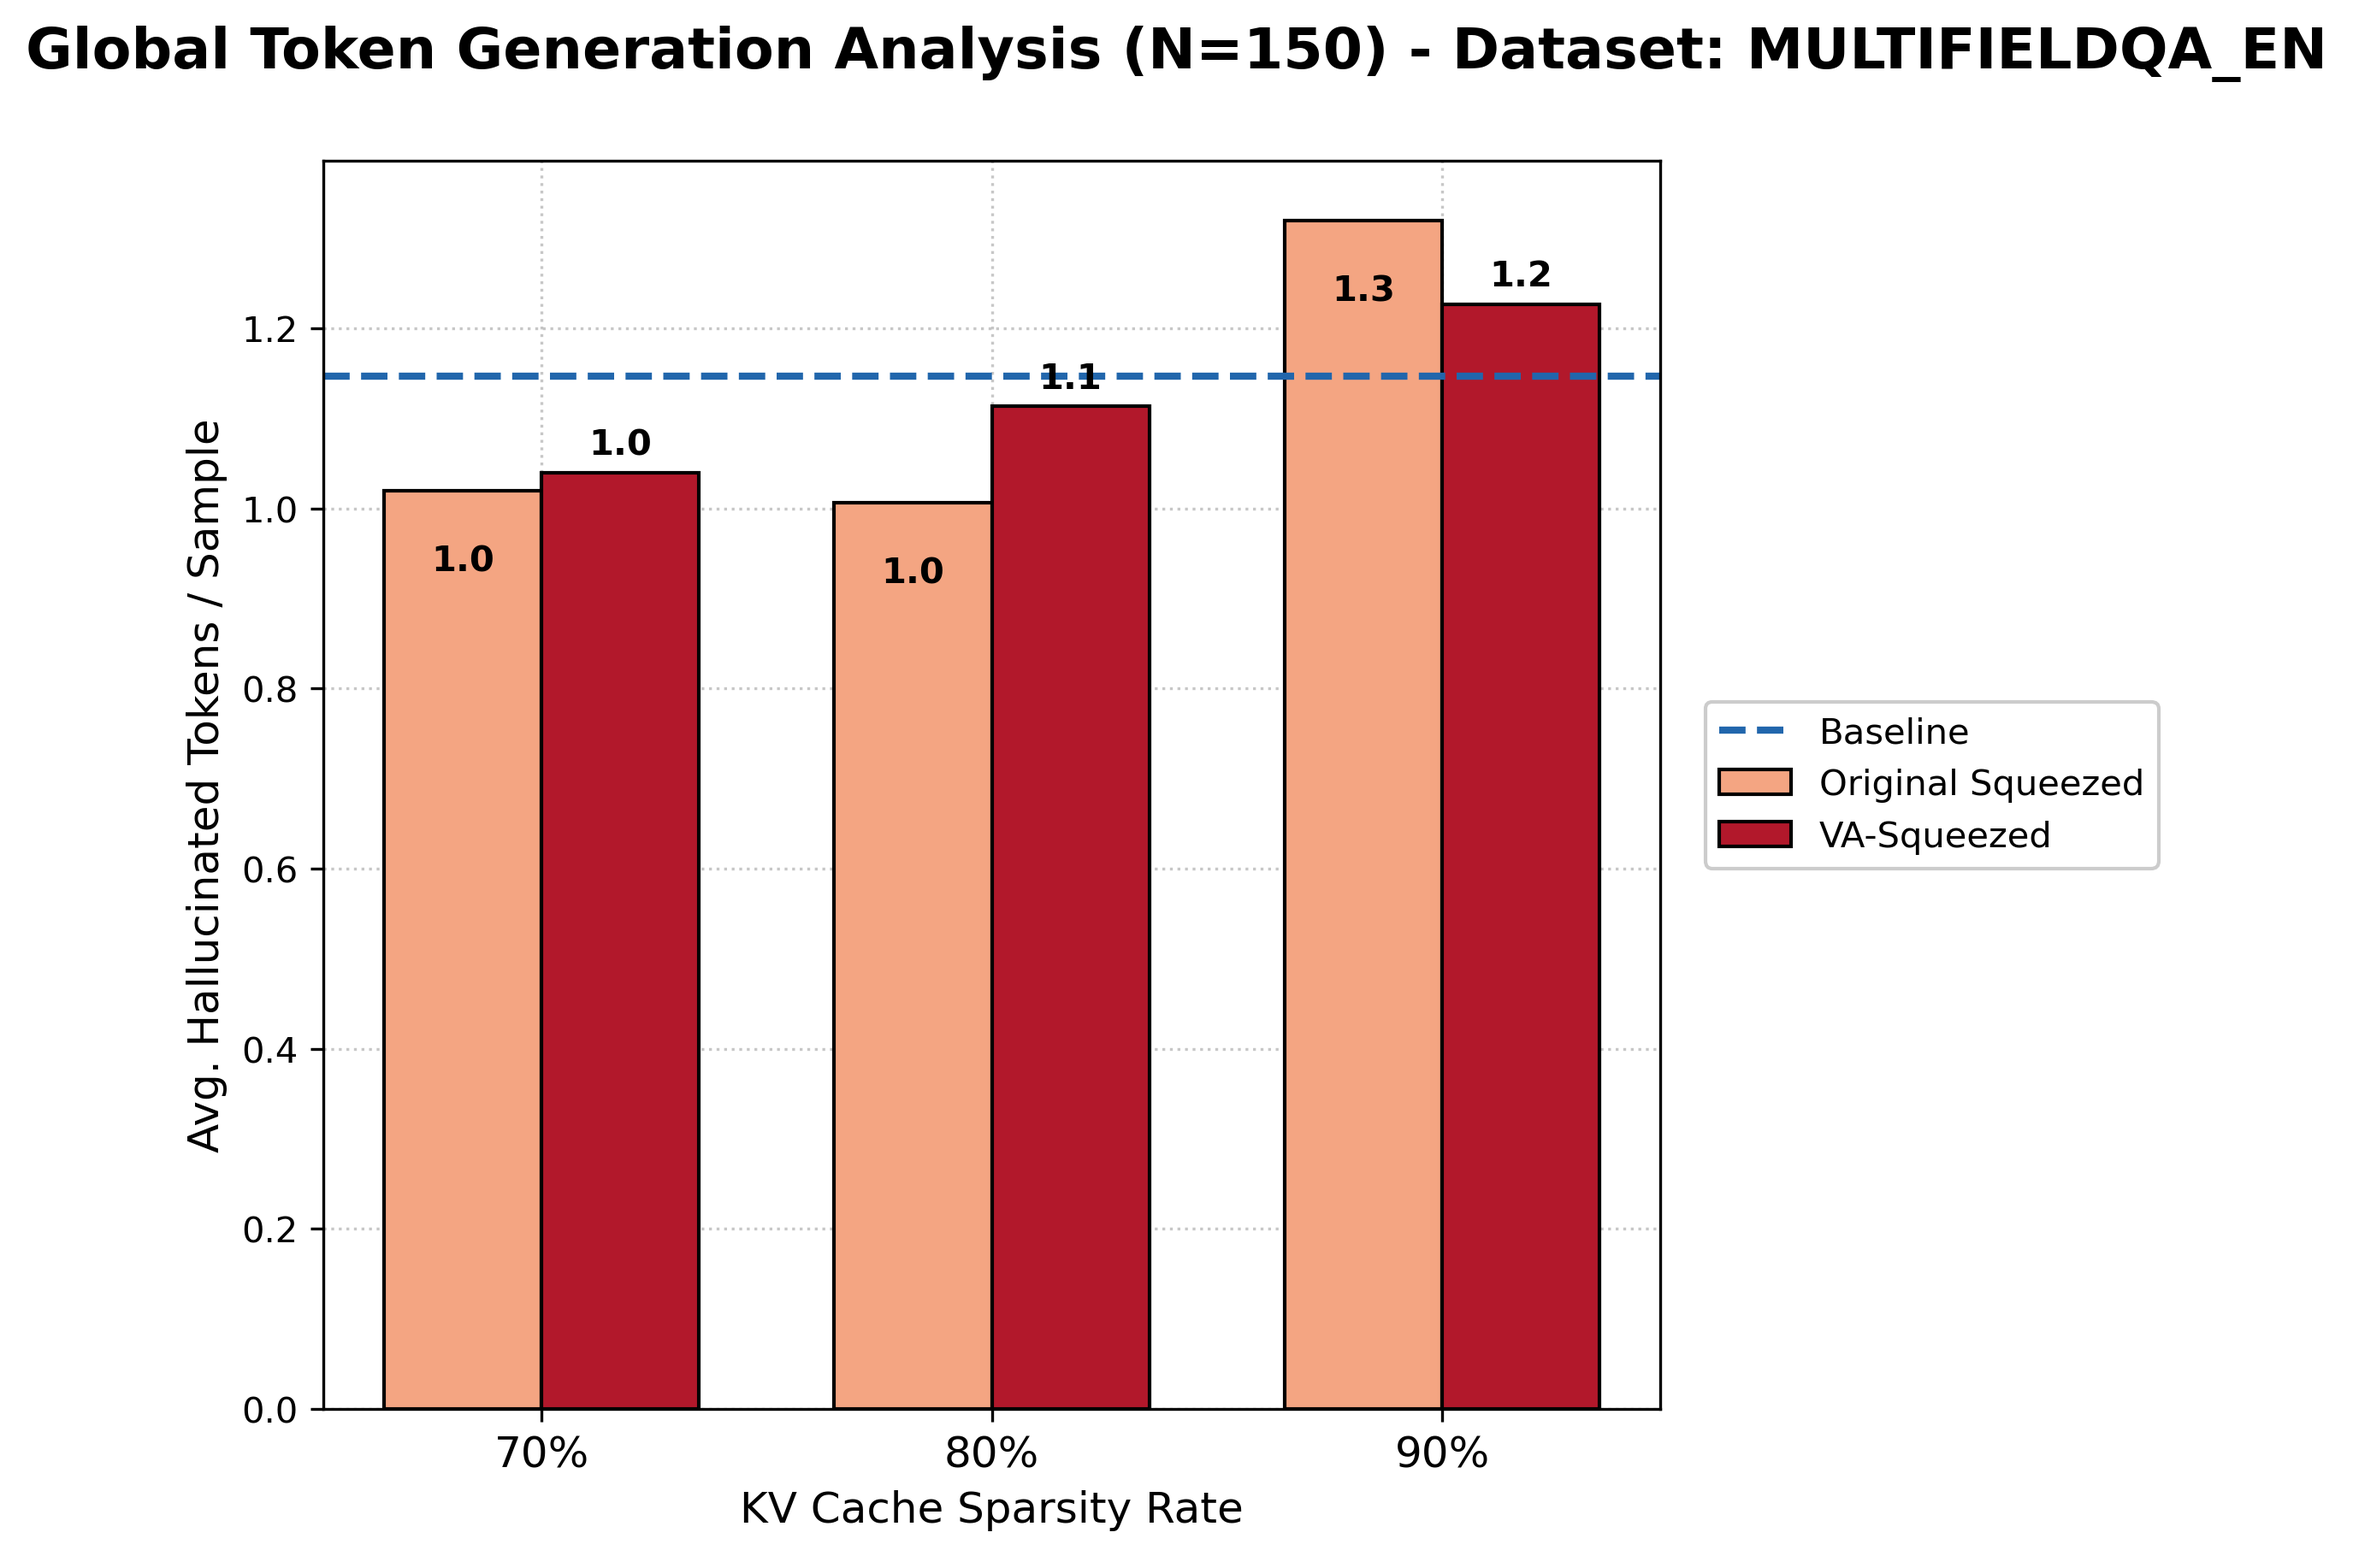
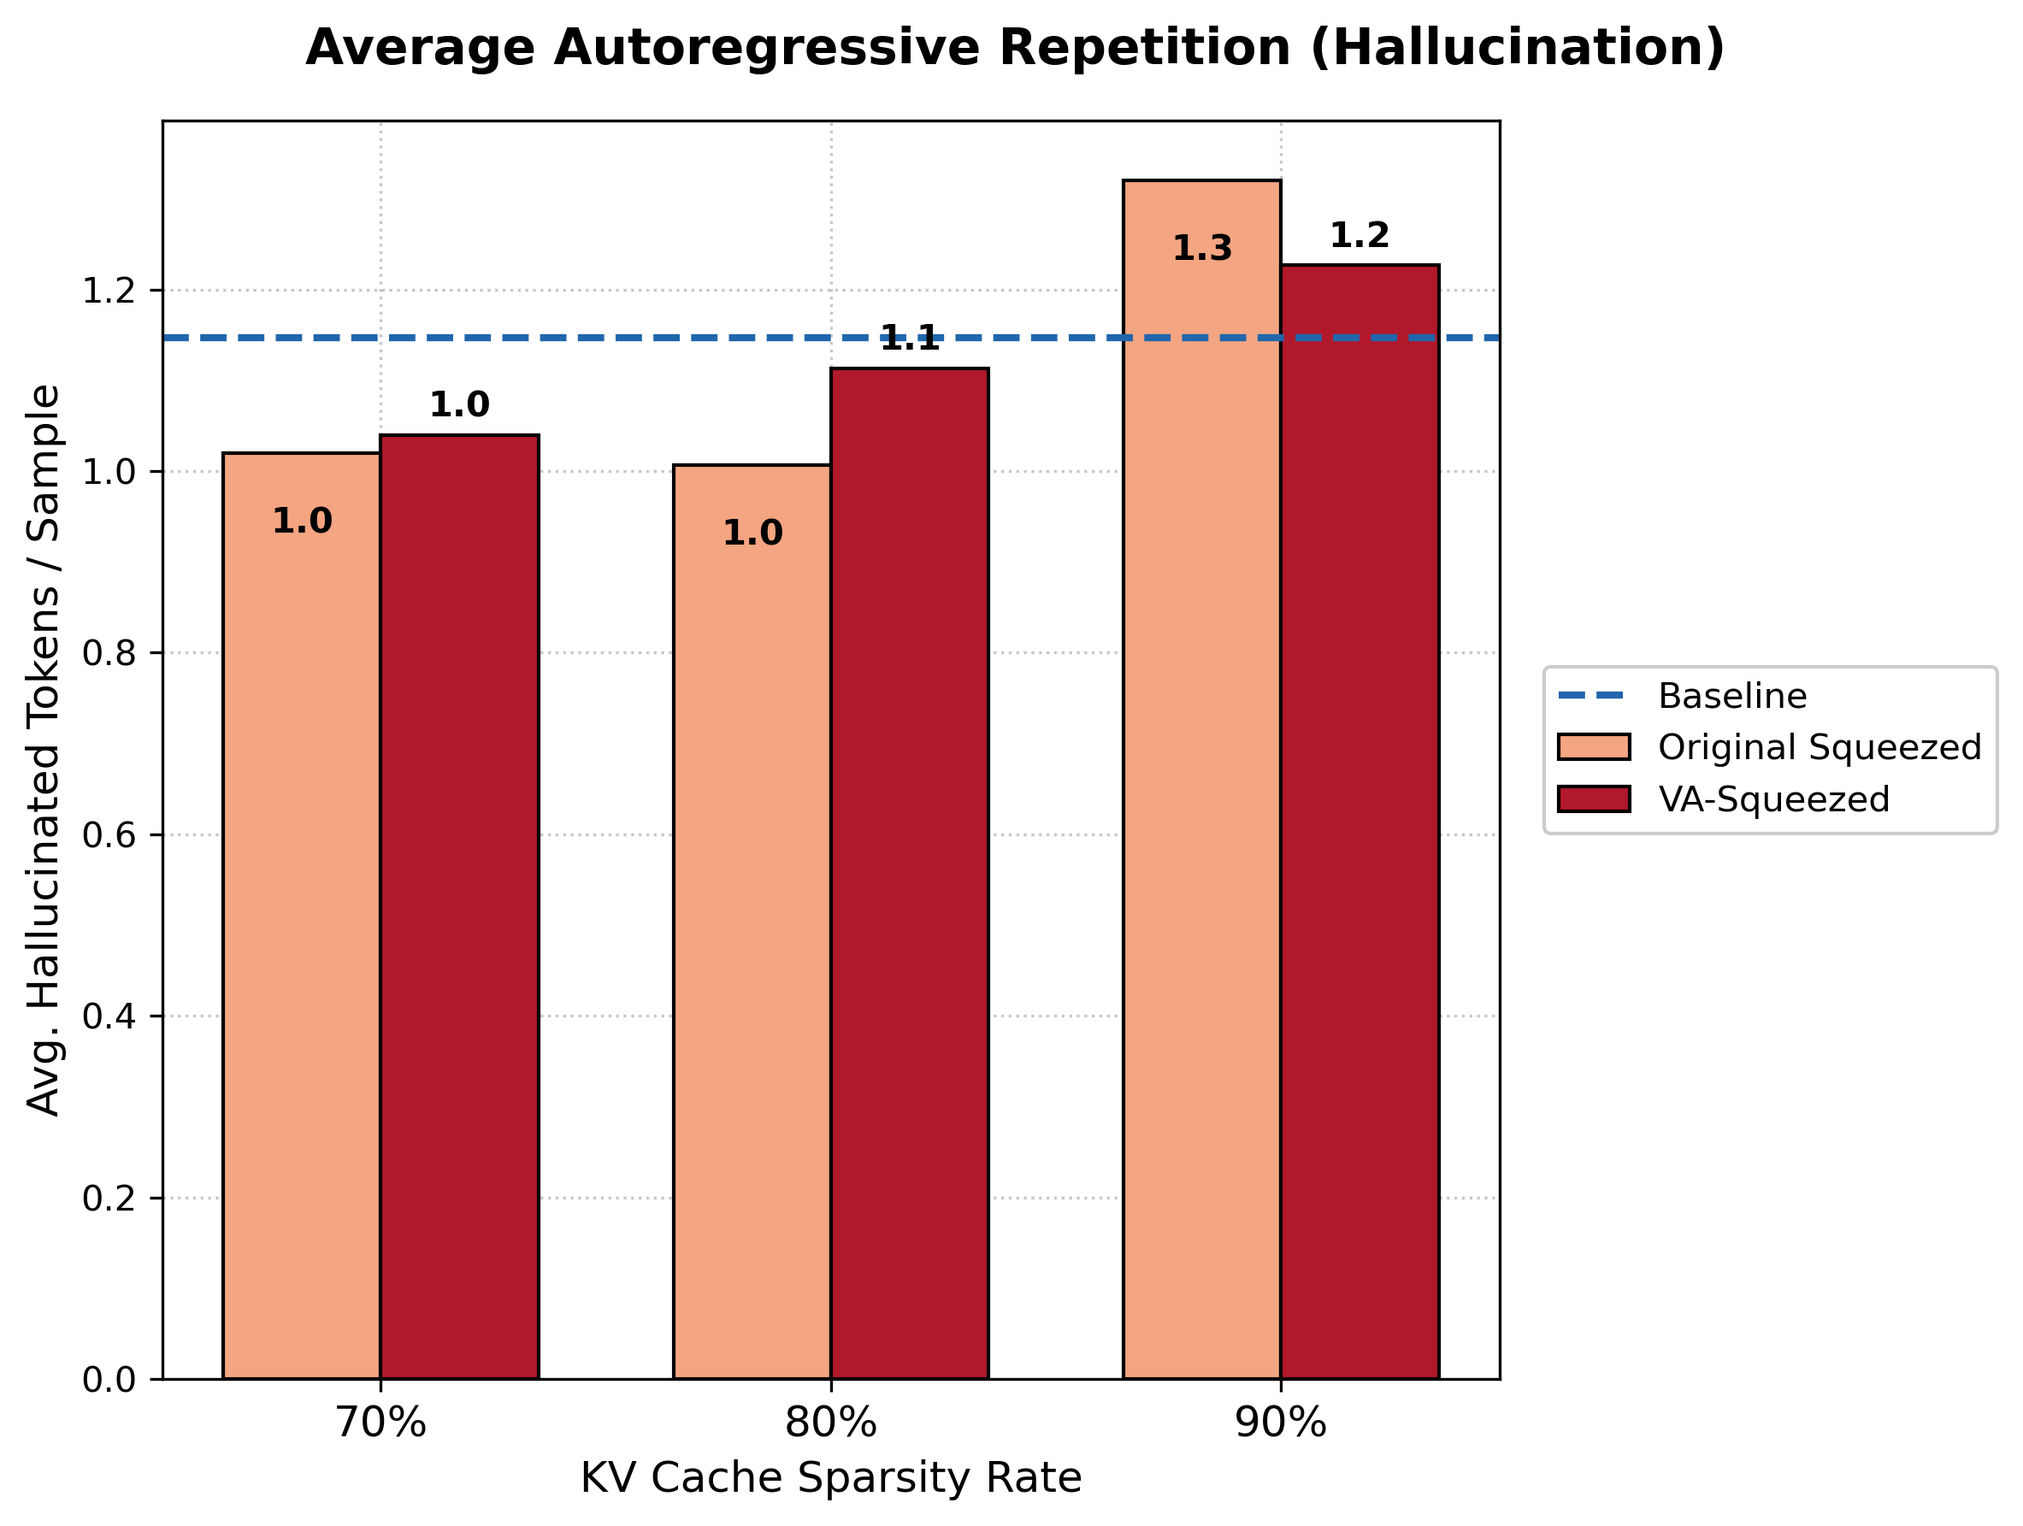
add latency

diff --git a/SqueezedAttention-main/benchmark_latency.py b/SqueezedAttention-main/benchmark_latency.py
@@ -1,0 +1,238 @@
+import os
+import sys
+
+# Ép hệ thống dùng phiên bản transformers tuỳ chỉnh của SqueezedAttention để tránh lỗi ImportError
+current_dir = os.path.abspath(os.path.dirname(__file__))
+sys.path.insert(0, os.path.join(current_dir, "transformers", "src"))
+sys.path.insert(0, current_dir)
+
+import gc
+import json
+import torch
+import time
+import numpy as np
+import matplotlib.pyplot as plt
+from transformers import LlamaConfig, LlamaForCausalLM, AutoTokenizer
+from datasets import load_dataset
+from tqdm import tqdm
+import warnings
+
+warnings.filterwarnings("ignore")
+
+# CẤU HÌNH
+DATASET_NAME = "gov_report" # Tập có context dài nhất trong LongBench (tối đa ~32k)
+NUM_SAMPLES = 10
+MAX_NEW_TOKENS = 10         # Sinh ra 10 token để đo generation latency
+MODEL_PATH = "NousResearch/Llama-2-7b-chat-hf" # Thay đổi thành đường dẫn model thực tế của bạn
+# CHÚ Ý: Bạn cần trỏ đúng thư mục đã chạy gom cụm (offline clustering) cho dataset này
+CLUSTER_PATH = f"../value_aware_squeezed_project/Clusters-VA/{DATASET_NAME}/" 
+
+def load_model(path, is_baseline=True, percentile=0.7):
+    device = "cuda:0"
+    config = LlamaConfig.from_pretrained(path)
+    config._flash_attn_2_enabled = False
+    
+    if is_baseline:
+        config._attn_implementation = "sdpa"
+        config.use_centroids = False
+    else:
+        config._attn_implementation = "eager"
+        config.use_centroids = True
+        config.percentile = percentile
+        config.percent_clusters = 5
+        config.path_to_clusters_cosine = CLUSTER_PATH
+        config.hierarchical_lookup = False
+        config.percent_clusters_l2 = -1
+        config.percentile_lower = 0.7
+        config.obs_window = 100
+        
+    model = LlamaForCausalLM.from_pretrained(
+        path,
+        config=config,
+        torch_dtype=torch.float16,
+        device_map={"": device},
+        low_cpu_mem_usage=True
+    )
+    
+    # Fix buffer device issue
+    for name, buffer in model.named_buffers():
+        buffer.data = buffer.data.to(device)
+        
+    model.eval()
+    tokenizer = AutoTokenizer.from_pretrained(path, use_fast=False)
+    return model, tokenizer
+
+def get_latency(model, input_ids, max_gen=10):
+    # Warmup để tránh sai số lần chạy đầu tiên
+    with torch.no_grad():
+        with torch.backends.cuda.sdp_kernel(enable_flash=False, enable_mem_efficient=True, enable_math=True):
+            _ = model.generate(input_ids, max_new_tokens=1, use_cache=True)
+            
+    # Đo Prefill (Sinh token đầu tiên)
+    torch.cuda.synchronize()
+    start_prefill = time.time()
+    with torch.no_grad():
+        with torch.backends.cuda.sdp_kernel(enable_flash=False, enable_mem_efficient=True, enable_math=True):
+            _ = model.generate(input_ids, max_new_tokens=1, use_cache=True)
+    torch.cuda.synchronize()
+    prefill_time = time.time() - start_prefill
+    
+    # Đo Tổng (Sinh max_gen token)
+    torch.cuda.synchronize()
+    start_total = time.time()
+    with torch.no_grad():
+        with torch.backends.cuda.sdp_kernel(enable_flash=False, enable_mem_efficient=True, enable_math=True):
+            _ = model.generate(input_ids, max_new_tokens=max_gen, use_cache=True)
+    torch.cuda.synchronize()
+    total_time = time.time() - start_total
+    
+    # Thời gian sinh các token tiếp theo (sau prefill)
+    # Tính trung bình trên 1 token (chia cho max_gen - 1 vì token đầu tiên đã được tính vào prefill)
+    gen_time = (total_time - prefill_time) / (max_gen - 1) if max_gen > 1 else (total_time - prefill_time)
+    
+    return prefill_time, gen_time
+
+def main():
+    print(f"Loading dataset '{DATASET_NAME}'...")
+    try:
+        dataset = load_dataset('THUDM/LongBench', DATASET_NAME, split='test')
+    except Exception as e:
+        print(f"Lỗi tải dataset: {e}")
+        return
+        
+    # Sắp xếp theo chiều dài giảm dần và lấy NUM_SAMPLES mẫu dài nhất
+    dataset_sorted = sorted(dataset, key=lambda x: x['length'], reverse=True)
+    samples = dataset_sorted[:NUM_SAMPLES]
+    
+    # Lấy prompt format (mặc định cho LongBench)
+    try:
+        with open("LongBench/config/dataset2prompt.json", "r") as f:
+            d2p = json.load(f)
+            prompt_format = d2p.get(DATASET_NAME, "{context}\n\n{input}")
+    except:
+        prompt_format = "{context}\n\n{input}"
+
+    configs = [
+        {"name": "Baseline", "is_baseline": True, "percentile": 0.0},
+        {"name": "70% Pruning", "is_baseline": False, "percentile": 0.3}, # 70% pruning = giữ lại 30% (0.3)
+        {"name": "80% Pruning", "is_baseline": False, "percentile": 0.2}, # 80% pruning = giữ lại 20% (0.2)
+    ]
+    
+    results = {}
+    
+    for conf in configs:
+        print(f"\n=====================================")
+        print(f"Đang chạy đo đạc cho: {conf['name']}")
+        print(f"=====================================")
+        try:
+            print("Đang tải model vào GPU (quá trình này mất 1-2 phút tùy ổ cứng, vui lòng đợi)...")
+            model, tokenizer = load_model(MODEL_PATH, conf["is_baseline"], conf["percentile"])
+            print("Tải model thành công! Đang chạy đo đạc (tiến trình sẽ hiển thị ngay bên dưới)...")
+        except Exception as e:
+            print(f"Lỗi load model: {e}")
+            print("LƯU Ý: Nếu lỗi liên quan đến file cụm (clusters), hãy đảm bảo thư mục CLUSTER_PATH tồn tại!")
+            continue
+            
+        prefill_times = []
+        gen_times = []
+        
+        for sample in tqdm(samples, desc=conf['name']):
+            prompt = prompt_format.format(**sample)
+            # Khởi tạo Input
+            input_ids = tokenizer(prompt, return_tensors="pt").input_ids.to("cuda:0")
+            
+            # Nếu bộ nhớ GPU (VRAM) không đủ, ta cắt bớt context xuống 16k hoặc 24k token
+            # Ở đây tôi giới hạn tối đa 24k để chạy vừa trên các loại GPU 24GB thông thường
+            if input_ids.shape[1] > 24000:
+                input_ids = input_ids[:, -24000:]
+                
+            p_time, g_time = get_latency(model, input_ids, max_gen=MAX_NEW_TOKENS)
+            prefill_times.append(p_time)
+            gen_times.append(g_time)
+            
+            del input_ids
+            gc.collect()
+            torch.cuda.empty_cache()
+            
+        # Tính trung bình thời gian (giây)
+        results[conf["name"]] = {
+            "prefill": np.mean(prefill_times),
+            "generation": np.mean(gen_times)
+        }
+        print(f"> Prefill avg: {np.mean(prefill_times):.4f}s | Generation avg: {np.mean(gen_times):.4f}s")
+        
+        del model, tokenizer
+        gc.collect()
+        torch.cuda.empty_cache()
+
+    # Vẽ biểu đồ nếu có kết quả
+    if "Baseline" in results:
+        plot_results(results)
+
+def plot_results(results):
+    labels = ["Prefill Latency", "Generation Latency"]
+    
+    # Baseline
+    base_prefill = results["Baseline"]["prefill"]
+    base_gen = results["Baseline"]["generation"]
+    
+    # 70% Pruning (nếu chạy lỗi sẽ bỏ qua)
+    p70_prefill = results.get("70% Pruning", {}).get("prefill", base_prefill)
+    p70_gen = results.get("70% Pruning", {}).get("generation", base_gen)
+    
+    # 80% Pruning
+    p80_prefill = results.get("80% Pruning", {}).get("prefill", base_prefill)
+    p80_gen = results.get("80% Pruning", {}).get("generation", base_gen)
+    
+    # Chuẩn hóa về Baseline (Baseline = 1.0)
+    norm_base = [1.0, 1.0]
+    norm_p70 = [p70_prefill / base_prefill if base_prefill > 0 else 1, p70_gen / base_gen if base_gen > 0 else 1]
+    norm_p80 = [p80_prefill / base_prefill if base_prefill > 0 else 1, p80_gen / base_gen if base_gen > 0 else 1]
+    
+    x = np.arange(len(labels))
+    width = 0.25
+    
+    fig, ax = plt.subplots(figsize=(10, 6))
+    
+    # Màu sắc
+    color_base = '#9575CD'   # Tím (Baseline)
+    color_p70 = '#64DD17'    # Xanh lá (70%)
+    color_p80 = '#4CAF50'    # Xanh lá đậm (80%)
+    
+    rects1 = ax.bar(x - width, norm_base, width, label='Baseline', color=color_base)
+    rects2 = ax.bar(x, norm_p70, width, label='70% Pruning', color=color_p70, alpha=0.9)
+    rects3 = ax.bar(x + width, norm_p80, width, label='80% Pruning', color=color_p80, alpha=0.9)
+    
+    # Thêm số speedup (VD: 1.8X)
+    def add_speedup(rects, norm_vals):
+        for rect, norm_val in zip(rects, norm_vals):
+            speedup = 1.0 / norm_val if norm_val > 0 else 1.0
+            height = rect.get_height()
+            ax.annotate(f'{speedup:.1f}X',
+                        xy=(rect.get_x() + rect.get_width() / 2, height),
+                        xytext=(0, 10),  
+                        textcoords="offset points",
+                        ha='center', va='bottom',
+                        fontsize=12, fontweight='bold', color='#1976D2')
+                        
+    add_speedup(rects2, norm_p70)
+    add_speedup(rects3, norm_p80)
+    
+    ax.set_ylabel('Normalized Latency', fontsize=14)
+    ax.set_title(f'Average Latency (Fixed Context Length)\nDataset: {DATASET_NAME} (Top 10 Longest Samples)', fontsize=16, fontweight='bold')
+    ax.set_xticks(x)
+    ax.set_xticklabels(labels, fontsize=14)
+    ax.legend(loc='lower center', bbox_to_anchor=(0.5, -0.15), ncol=3, fontsize=12)
+    
+    # Tạo style khung nhẹ
+    ax.spines['top'].set_visible(False)
+    ax.spines['right'].set_visible(False)
+    ax.grid(axis='y', linestyle='--', alpha=0.7)
+    
+    plt.tight_layout()
+    out_file = 'plot_latency_benchmark.png'
+    plt.savefig(out_file, dpi=300)
+    print(f"\n[THÀNH CÔNG] Đã lưu biểu đồ thành công: {out_file}")
+
+if __name__ == "__main__":
+    main()

diff --git a/SqueezedAttention-main/plot_hall.py b/SqueezedAttention-main/plot_hall.py
@@ -97,7 +97,8 @@ def process_dataset(DATASET):
     # --- VẼ BIỂU ĐỒ CỘT (BAR CHART) ---
     # Thay vì 1 hàng 2 cột, ta chỉ vẽ 1 biểu đồ duy nhất
     fig, ax1 = plt.subplots(figsize=(8, 6))
-    fig.suptitle(f'Global Token Generation Analysis (N={len(base_samples)}) - Dataset: {DATASET.upper()}', fontsize=16, fontweight='bold', y=1.0)
+    #fig.suptitle(f'Global Token Generation Analysis (N={len(base_samples)}) - Dataset: {DATASET.upper()}', fontsize=16, fontweight='bold', y=1.0)
+    fig.suptitle(f'Average Autoregressive Repetition (Hallucination)', fontsize=14, fontweight='bold')
 
     x_pos = np.arange(len(PERCENTILES))
     width = 0.35
